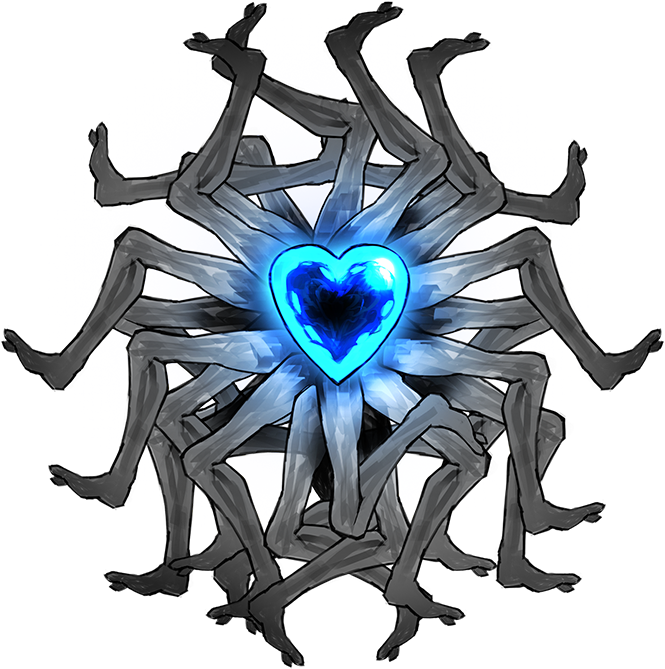
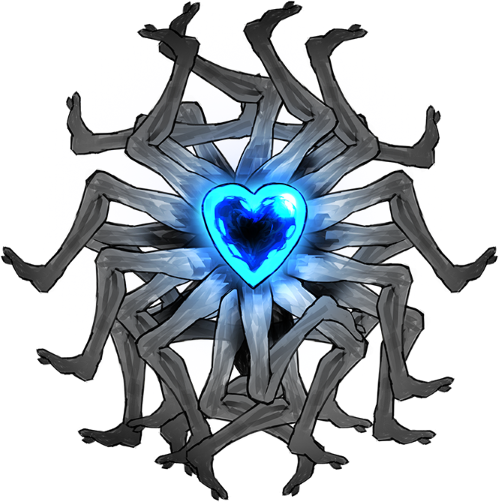
finish up blue star

diff --git a/src/main/java/ruina/monsters/act3/blueStar/BlueStar.java b/src/main/java/ruina/monsters/act3/blueStar/BlueStar.java
@@ -51,7 +51,6 @@ public class BlueStar extends AbstractRuinaMonster
     public static final String[] POWER_DESCRIPTIONS = powerStrings.DESCRIPTIONS;
 
     public AbstractMonster[] minions = new AbstractMonster[2];
-    private boolean canPlayMusic = true;
     private final AbstractAnimation star;
 
     public BlueStar() {
@@ -59,7 +58,7 @@ public class BlueStar extends AbstractRuinaMonster
     }
 
     public BlueStar(final float x, final float y) {
-        super(NAME, ID, 110, 10.0F, 0, 200.0f, 305.0f, null, x, y);
+        super(NAME, ID, 110, 0.0F, 0, 250.0f, 345.0f, null, x, y);
         this.animation = new BetterSpriterAnimation(makeMonsterPath("BlueStar/Spriter/BlueStar.scml"));
         this.star = new BetterSpriterAnimation(makeMonsterPath("BlueStar/Star/Star.scml"));
         this.type = EnemyType.ELITE;
@@ -77,11 +76,6 @@ public class BlueStar extends AbstractRuinaMonster
             public void updateDescription() {
                 description = POWER_DESCRIPTIONS[0] + amount + POWER_DESCRIPTIONS[1];
             }
-
-            @Override
-            public void atEndOfRound() {
-                Summon();
-            }
         };
         applyToTarget(this, this, power);
         Summon();
@@ -91,10 +85,6 @@ public class BlueStar extends AbstractRuinaMonster
     public void takeTurn() {
         DamageInfo info = new DamageInfo(this, this.moves.get(nextMove).baseDamage, DamageInfo.DamageType.NORMAL);
         int multiplier = this.moves.get(nextMove).multiplier;
-
-        if (this.firstMove) {
-            firstMove = false;
-        }
 
         if(info.base > -1) {
             info.applyPowers(this, adp());
@@ -115,7 +105,7 @@ public class BlueStar extends AbstractRuinaMonster
             }
             case SOUND_OF_STAR: {
                 playSound("BlueStarCharge");
-                atb(new VFXAction(new WaitEffect(), 0.2f));
+                atb(new VFXAction(new WaitEffect(), 0.5f));
                 atb(new AbstractGameAction() {
                     @Override
                     public void update() {
@@ -125,7 +115,7 @@ public class BlueStar extends AbstractRuinaMonster
                     }
                 });
                 dmg(adp(), info);
-                atb(new VFXAction(new WaitEffect(), 0.5f));
+                atb(new VFXAction(new WaitEffect(), 1.0f));
                 atb(new AbstractGameAction() {
                     @Override
                     public void update() {
@@ -136,14 +126,8 @@ public class BlueStar extends AbstractRuinaMonster
                 break;
             }
         }
+        Summon();
         atb(new RollMoveAction(this));
-        atb(new AbstractGameAction() {
-            @Override
-            public void update() {
-                canPlayMusic = true;
-                this.isDone = true;
-            }
-        });
     }
 
     @Override
@@ -154,12 +138,6 @@ public class BlueStar extends AbstractRuinaMonster
             setMoveShortcut(SOUND_OF_STAR, MOVES[SOUND_OF_STAR]);
         } else {
             setMoveShortcut(RISING_STAR, MOVES[RISING_STAR]);
-        }
-        if (canPlayMusic) {
-            canPlayMusic = false;
-            if (nextMove == SOUND_OF_STAR) {
-
-            }
         }
     }
 
@@ -177,10 +155,6 @@ public class BlueStar extends AbstractRuinaMonster
                 }
                 atb(new SpawnMonsterAction(minion, true));
                 atb(new UsePreBattleActionAction(minion));
-                if (!firstMove) {
-                    minion.rollMove();
-                    minion.createIntent();
-                }
                 minions[i] = minion;
             }
         }
@@ -205,7 +179,7 @@ public class BlueStar extends AbstractRuinaMonster
     public void render(SpriteBatch sb) {
         if (!isDead) {
             sb.setColor(Color.WHITE);
-            star.renderSprite(sb, (float) Settings.WIDTH / 2, (float) Settings.HEIGHT / 2);
+            star.renderSprite(sb, (float) Settings.WIDTH / 2, (float) Settings.HEIGHT / 2 + (150.0F * Settings.scale));
         }
         super.render(sb);
     }

diff --git a/src/main/java/ruina/monsters/act3/blueStar/Worshipper.java b/src/main/java/ruina/monsters/act3/blueStar/Worshipper.java
@@ -1,5 +1,6 @@
 package ruina.monsters.act3.blueStar;
 
+import com.badlogic.gdx.graphics.g2d.SpriteBatch;
 import com.badlogic.gdx.math.MathUtils;
 import com.megacrit.cardcrawl.actions.AbstractGameAction;
 import com.megacrit.cardcrawl.actions.animations.VFXAction;
@@ -61,7 +62,7 @@ public class Worshipper extends AbstractRuinaMonster
     }
 
     public Worshipper(final float x, final float y, BlueStar star) {
-        super(NAME, ID, 40, -5.0F, 0, 250.0f, 275.0f, null, x, y);
+        super(NAME, ID, 40, -5.0F, 0, 220.0f, 255.0f, null, x, y);
         this.animation = new BetterSpriterAnimation(makeMonsterPath("Worshipper/Spriter/Worshipper.scml"));
         this.type = EnemyType.NORMAL;
         setHp(calcAscensionTankiness(46), calcAscensionTankiness(52));
